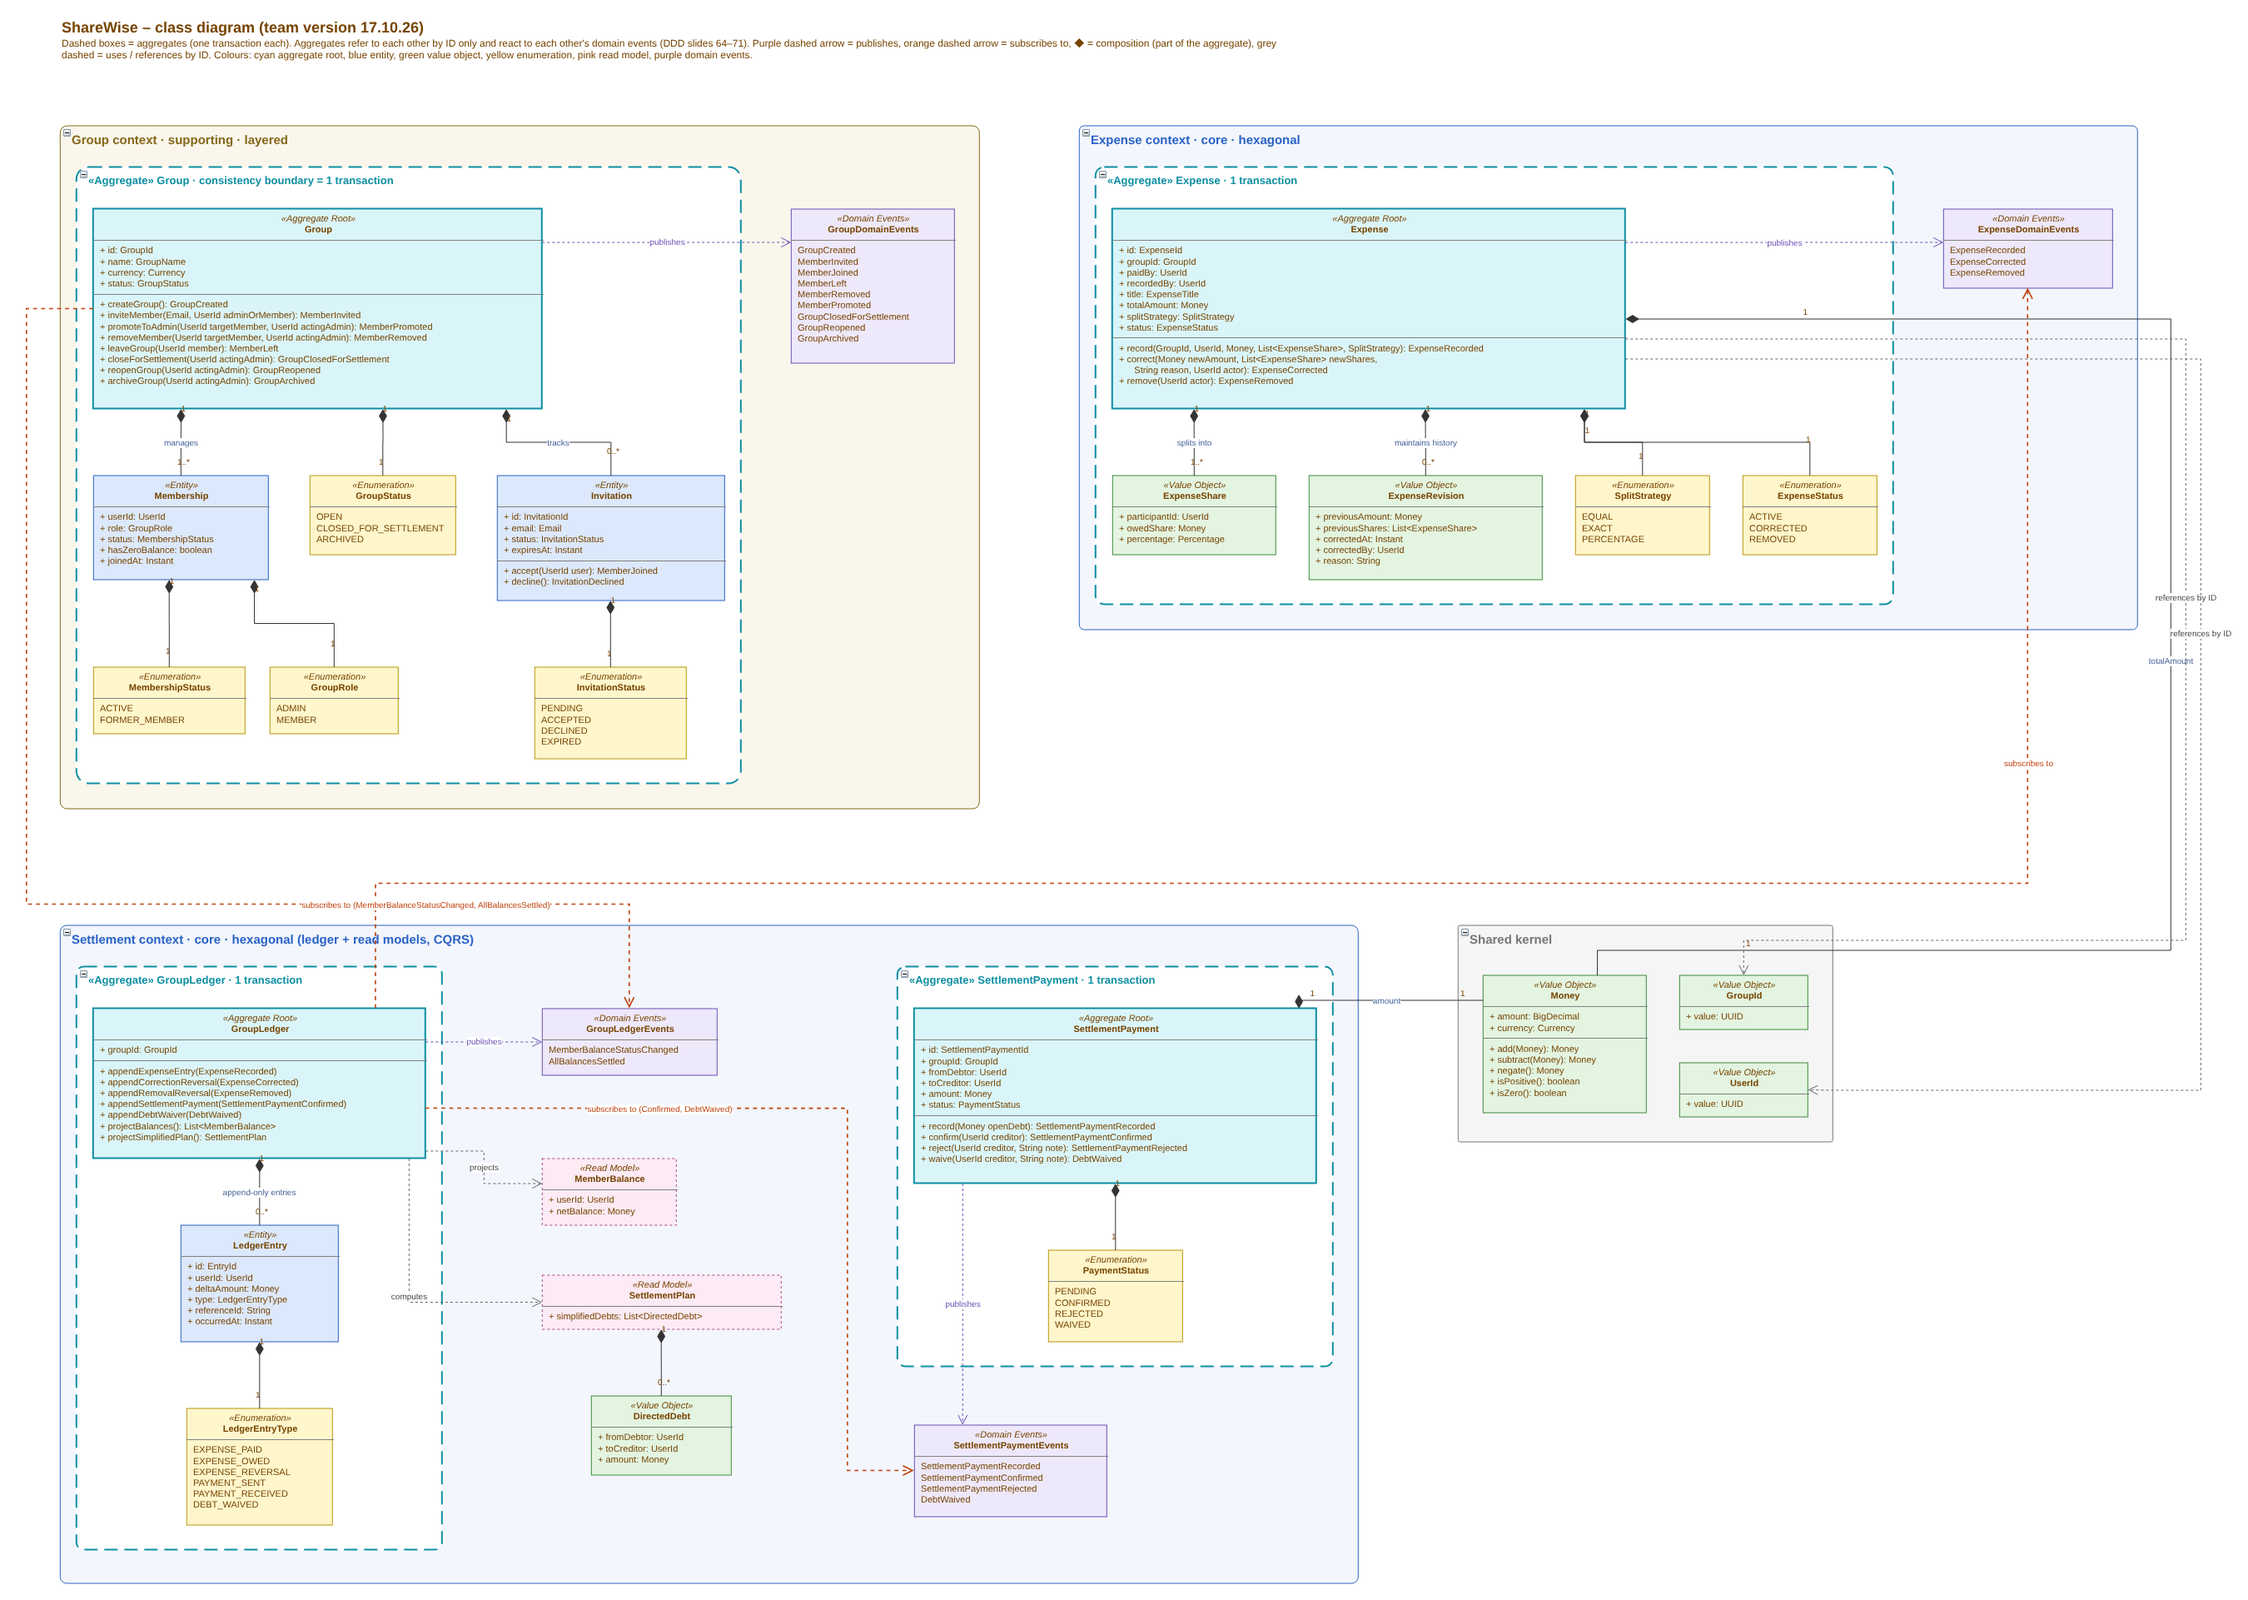
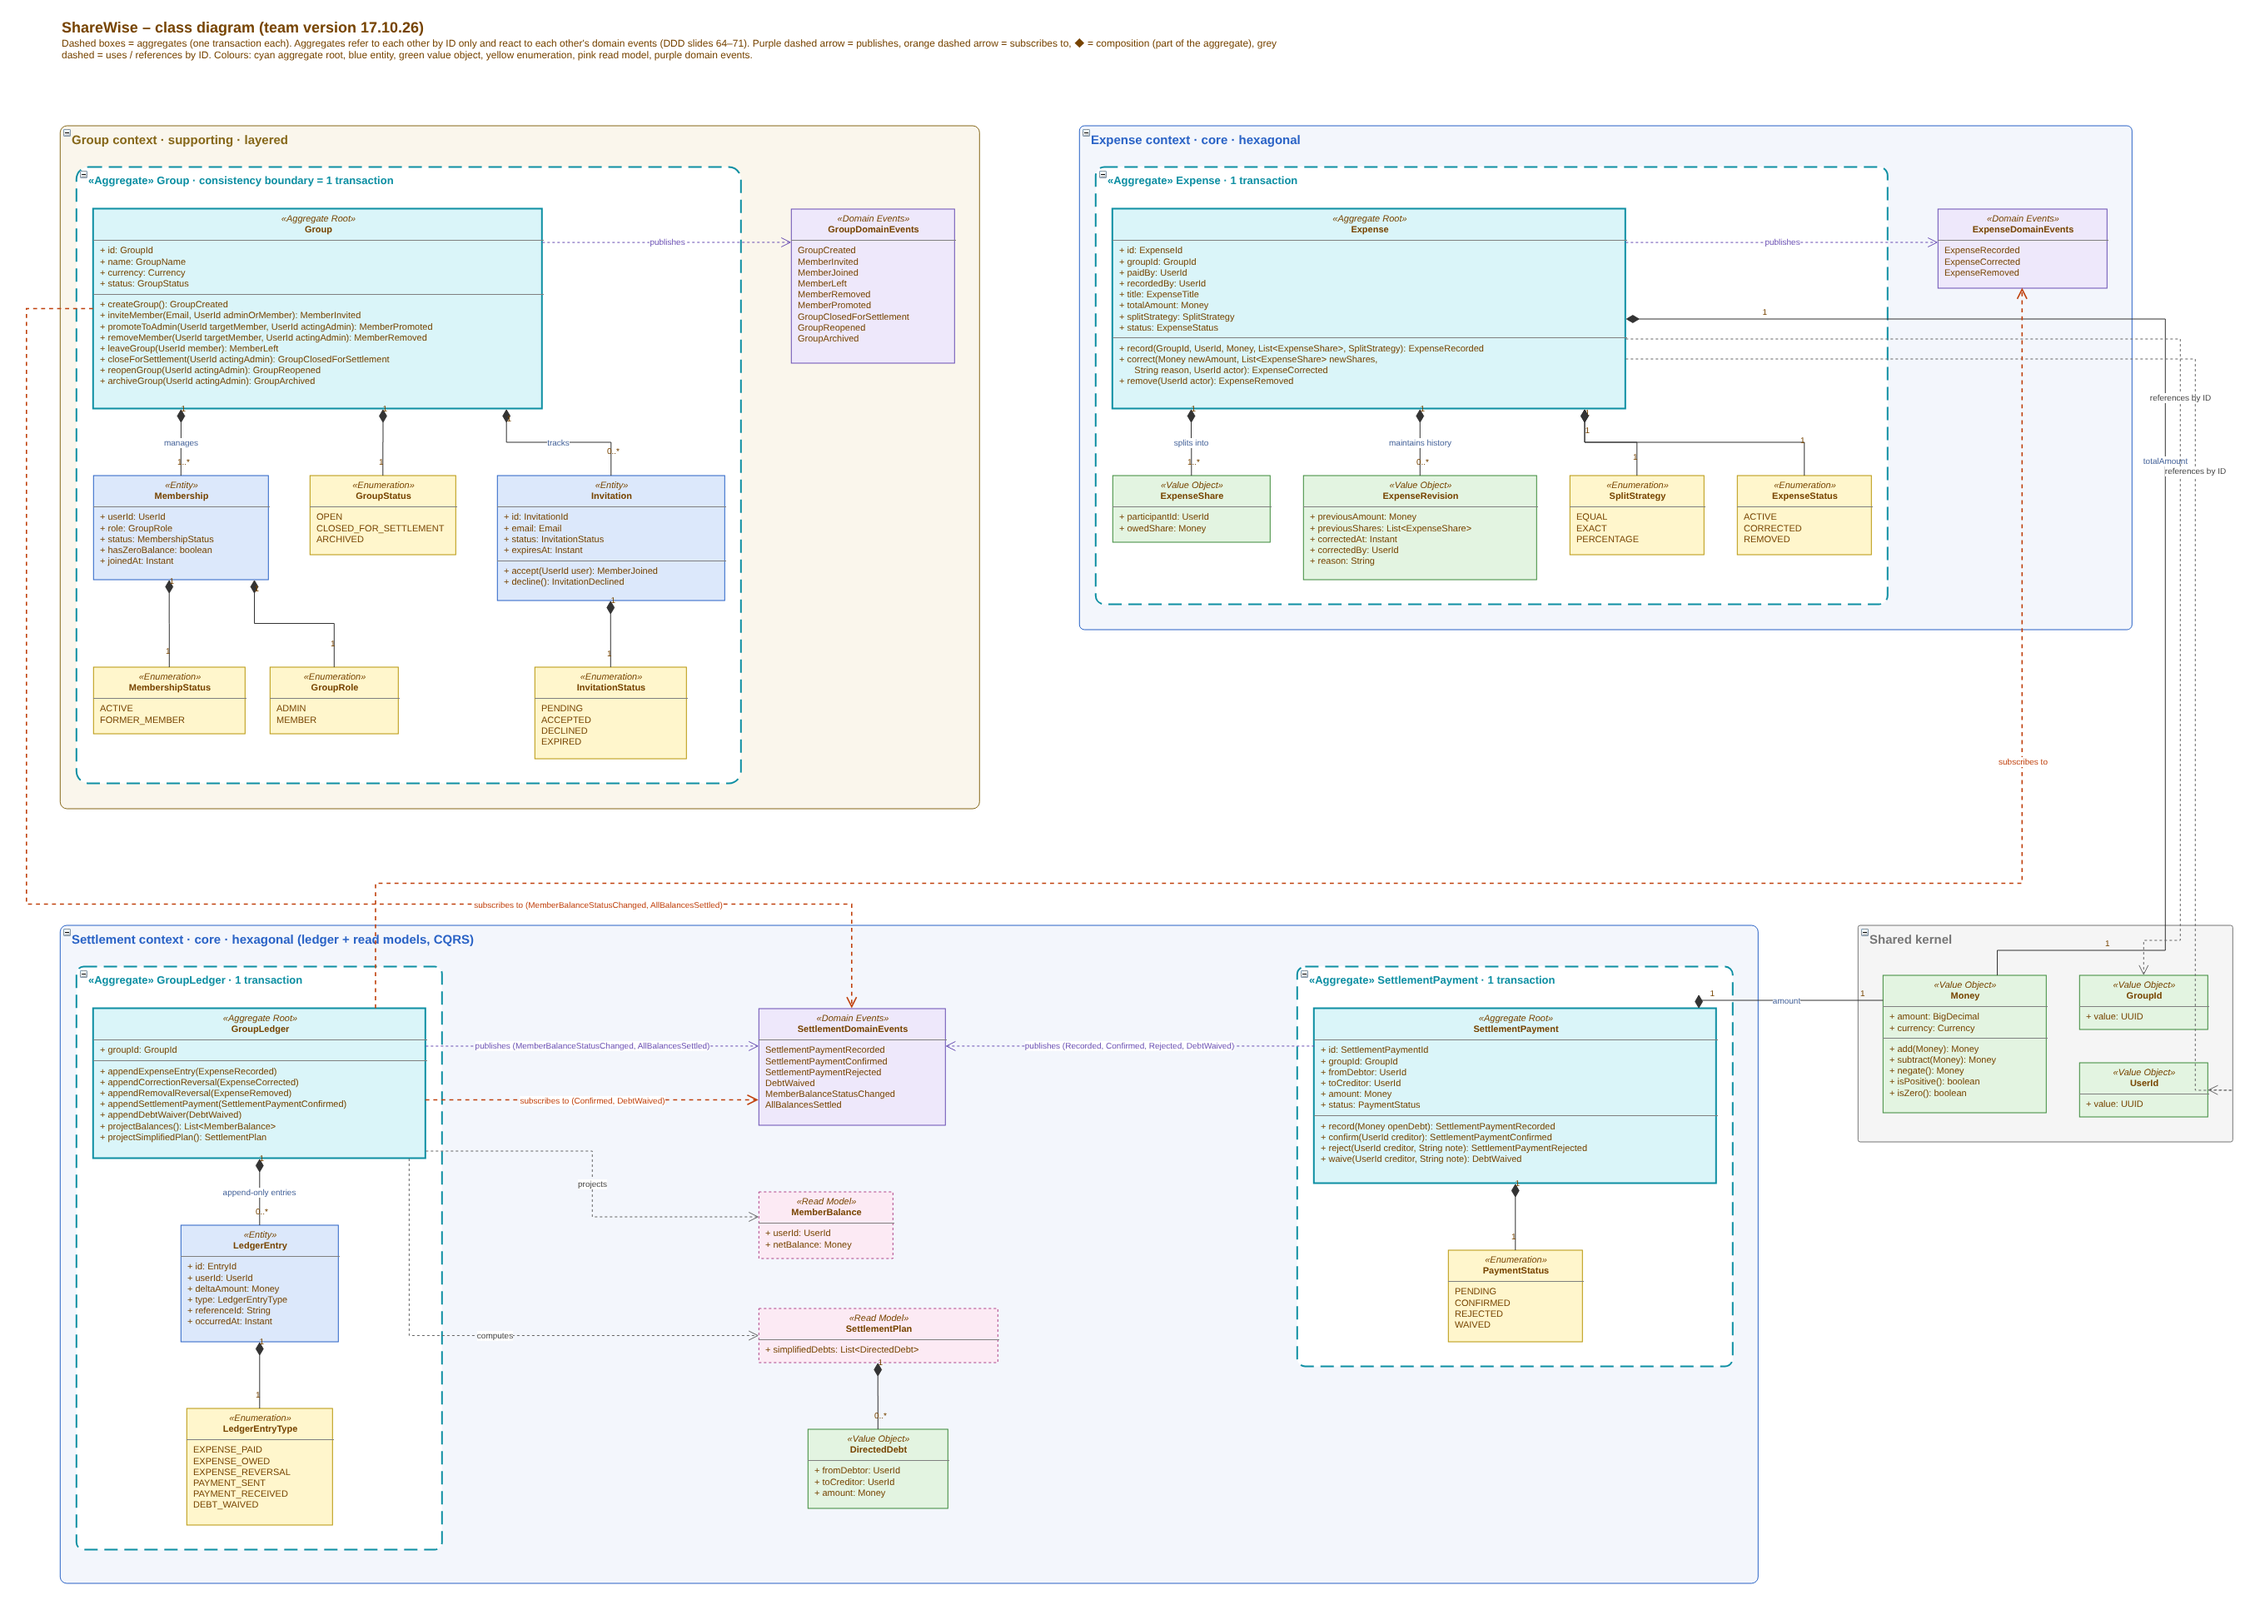
Team diagram: one Settlement events box, labelled arrows, no percentage
- ExpenseShare: percentage removed (split is stored as amounts + SplitStrategy).
- Settlement context back to one SettlementDomainEvents box (team convention:
  one events box per context) instead of two per-aggregate boxes.
- One labelled arrow per relationship: SettlementPayment publishes (Recorded,
  Confirmed, Rejected, DebtWaived); GroupLedger publishes
  (MemberBalanceStatusChanged, AllBalancesSettled); GroupLedger subscribes to
  (Confirmed, DebtWaived); Group subscribes to (MemberBalanceStatusChanged,
  AllBalancesSettled).

Claude-Session: https://claude.ai/code/session_01XWcDcA4MpQE7WFgrEA8CzJ

diff --git a/work/tools/gen_team_diagram.py b/work/tools/gen_team_diagram.py
@@ -38,7 +38,7 @@ C = {
                  "+ correct(Money newAmount, List<ExpenseShare> newShares,",
                  "      String reason, UserId actor): ExpenseCorrected",
                  "+ remove(UserId actor): ExpenseRemoved"]),
-    "ExpenseShare": ("vo", ["+ participantId: UserId", "+ owedShare: Money", "+ percentage: Percentage"], []),
+    "ExpenseShare": ("vo", ["+ participantId: UserId", "+ owedShare: Money"], []),
     "ExpenseRevision": ("vo", ["+ previousAmount: Money", "+ previousShares: List<ExpenseShare>", "+ correctedAt: Instant",
                                "+ correctedBy: UserId", "+ reason: String"], []),
     "SplitStrategy": ("enum", ["EQUAL", "EXACT", "PERCENTAGE"], []),
@@ -54,7 +54,6 @@ C = {
                                "+ referenceId: String", "+ occurredAt: Instant"], []),
     "LedgerEntryType": ("enum", ["EXPENSE_PAID", "EXPENSE_OWED", "EXPENSE_REVERSAL", "PAYMENT_SENT",
                                  "PAYMENT_RECEIVED", "DEBT_WAIVED"], []),
-    "GroupLedgerEvents": ("events", ["MemberBalanceStatusChanged", "AllBalancesSettled"], []),
     "MemberBalance": ("readmodel", ["+ userId: UserId", "+ netBalance: Money"], []),
     "SettlementPlan": ("readmodel", ["+ simplifiedDebts: List<DirectedDebt>"], []),
     "DirectedDebt": ("vo", ["+ fromDebtor: UserId", "+ toCreditor: UserId", "+ amount: Money"], []),
@@ -65,8 +64,9 @@ C = {
                            "+ reject(UserId creditor, String note): SettlementPaymentRejected",
                            "+ waive(UserId creditor, String note): DebtWaived"]),
     "PaymentStatus": ("enum", ["PENDING", "CONFIRMED", "REJECTED", "WAIVED"], []),
-    "SettlementPaymentEvents": ("events", ["SettlementPaymentRecorded", "SettlementPaymentConfirmed",
-                                           "SettlementPaymentRejected", "DebtWaived"], []),
+    "SettlementDomainEvents": ("events", ["SettlementPaymentRecorded", "SettlementPaymentConfirmed",
+                                          "SettlementPaymentRejected", "DebtWaived",
+                                          "MemberBalanceStatusChanged", "AllBalancesSettled"], []),
     # Shared kernel
     "Money": ("vo", ["+ amount: BigDecimal", "+ currency: Currency"],
               ["+ add(Money): Money", "+ subtract(Money): Money", "+ negate(): Money", "+ isPositive(): boolean",
@@ -240,17 +240,16 @@ al_w, al_h = lw + 40, 50 + lh + ROWGAP + leh + ROWGAP + lth + 30
 i = [k for k, c in enumerate(cells) if 'id="AL"' in c][0]
 cells[i] = cells[i].replace('width="10" height="10"', f'width="{al_w}" height="{al_h}"'); box["AL"] = (box["AL"][0], box["AL"][1], al_w, al_h)
 
-MID = 20 + al_w + 120                      # middle column: ledger events + read models
-gle_w, gle_h = cls("GroupLedgerEvents", "S", MID, 100)
-corridor = 100 + gle_h + 40                 # free horizontal lane under the ledger events
-mb_y = corridor + 60
+MID = 20 + al_w + 380                      # middle column: the context's events box + read models (wide gaps leave room for arrow labels)
+sde_w, sde_h = cls("SettlementDomainEvents", "S", MID, 100)
+mb_y = 100 + sde_h + 80
 mbw, mbh = cls("MemberBalance", "S", MID, mb_y)
 spw, sph = cls("SettlementPlan", "S", MID, mb_y + mbh + 60)
 ddw, ddh = size("DirectedDebt")
 cls("DirectedDebt", "S", int(MID + (spw - ddw) / 2), mb_y + mbh + 60 + sph + ROWGAP)
-mid_w = max(gle_w, mbw, spw, ddw)
+mid_w = max(sde_w, mbw, spw, ddw)
 
-AP_X = MID + mid_w + 140
+AP_X = MID + mid_w + 360
 container("AP", "S", AP_X, 50, 10, 10, "«Aggregate» SettlementPayment · 1 transaction", *AGG, dashed=True)
 pw, ph = cls("SettlementPayment", "AP", 20, 50)
 psw, psh = size("PaymentStatus")
@@ -258,10 +257,8 @@ cls("PaymentStatus", "AP", int(20 + (pw - psw) / 2), 50 + ph + ROWGAP)
 ap_w, ap_h = pw + 40, 50 + ph + ROWGAP + psh + 30
 i = [k for k, c in enumerate(cells) if 'id="AP"' in c][0]
 cells[i] = cells[i].replace('width="10" height="10"', f'width="{ap_w}" height="{ap_h}"'); box["AP"] = (box["AP"][0], box["AP"][1], ap_w, ap_h)
-spe_w, spe_h = size("SettlementPaymentEvents")
-cls("SettlementPaymentEvents", "S", AP_X + 20, 50 + ap_h + 70)
-s_w = AP_X + max(ap_w, 20 + spe_w) + 30
-s_h = max(50 + al_h, 50 + ap_h + 70 + spe_h, mb_y + mbh + 60 + sph + ROWGAP + ddh) + 40
+s_w = AP_X + ap_w + 30
+s_h = max(50 + al_h, 50 + ap_h, mb_y + mbh + 60 + sph + ROWGAP + ddh) + 40
 i = [k for k, c in enumerate(cells) if 'id="S"' in c][0]
 cells[i] = cells[i].replace('width="10" height="10"', f'width="{s_w}" height="{s_h}"'); box["S"] = (S0[0], S0[1], s_w, s_h)
 
@@ -269,19 +266,20 @@ comp("LedgerEntry", "GroupLedger", "append-only entries", ("0..*", "1"))
 comp("LedgerEntryType", "LedgerEntry")
 comp("DirectedDebt", "SettlementPlan", "", ("0..*", "1"))
 comp("PaymentStatus", "SettlementPayment")
-L = box["GroupLedger"]; GLE = box["GroupLedgerEvents"]; MB = box["MemberBalance"]; SP = box["SettlementPlan"]
-P = box["SettlementPayment"]; SPE = box["SettlementPaymentEvents"]; Sx, Sy = S0
-edge("GroupLedger", "GroupLedgerEvents", PUB, "publishes", exit=(1, (GLE[1] + 40 - L[1]) / L[3]), entry=(0, 40 / GLE[3]))
+L = box["GroupLedger"]; SDE = box["SettlementDomainEvents"]; MB = box["MemberBalance"]; SP = box["SettlementPlan"]
+P = box["SettlementPayment"]; Sx, Sy = S0
+y1, y2 = SDE[1] + 45, SDE[1] + SDE[3] - 30   # two separate horizontal lanes between GroupLedger and the events box
+edge("GroupLedger", "SettlementDomainEvents", PUB, "publishes (MemberBalanceStatusChanged, AllBalancesSettled)",
+     exit=(1, (y1 - L[1]) / L[3]), entry=(0, (y1 - SDE[1]) / SDE[3]))
+edge("GroupLedger", "SettlementDomainEvents", SUB, "subscribes to (Confirmed, DebtWaived)",
+     exit=(1, (y2 - L[1]) / L[3]), entry=(0, (y2 - SDE[1]) / SDE[3]))
 edge("GroupLedger", "MemberBalance", DASH, "projects", exit=(1, min(0.95, (MB[1] + 30 - L[1]) / L[3])), entry=(0, 30 / MB[3]))
 x_down = L[0] + L[2] - 20
 edge("GroupLedger", "SettlementPlan", DASH, "computes", exit=((x_down - L[0]) / L[2], 1), entry=(0, 0.5),
      points=[(x_down, SP[1] + SP[3] / 2)])
-edge("SettlementPayment", "SettlementPaymentEvents", PUB, "publishes", exit=(0.12, 1),
-     entry=((P[0] + 0.12 * P[2] - SPE[0]) / SPE[2], 0))
-lane_y = Sy + corridor
-lane_x = box["AP"][0] - 60
-edge("GroupLedger", "SettlementPaymentEvents", SUB, "subscribes to (Confirmed, DebtWaived)",
-     exit=(1, (lane_y - L[1]) / L[3]), entry=(0, 0.5), points=[(lane_x, lane_y), (lane_x, SPE[1] + SPE[3] / 2)], label_at=-0.45)
+y3 = SDE[1] + 45
+edge("SettlementPayment", "SettlementDomainEvents", PUB, "publishes (Recorded, Confirmed, Rejected, DebtWaived)",
+     exit=(0, (y3 - P[1]) / P[3]), entry=(1, (y3 - SDE[1]) / SDE[3]))
 
 # ================================================================== Shared kernel (right of Settlement)
 K0 = (s_w + 120, S0[1])
@@ -315,11 +313,11 @@ for k, (tgt, lbl, sty, fy) in enumerate((("Money", "totalAmount", COMP, 0.55), (
 gap_y = S0[1] - 50
 edge("GroupLedger", "ExpenseDomainEvents", SUB, "subscribes to", exit=(0.85, 0), entry=(0.5, 1),
      points=[(L[0] + 0.85 * L[2], gap_y), (EDE[0] + EDE[2] / 2, gap_y)], label_at=0.6)
-# Group subscribes to GroupLedgerEvents: out of Group's left side, down the left margin, into the ledger events from above
+# Group subscribes to SettlementDomainEvents: out of Group's left side, down the left margin, into the events box from above
 gap_y2 = S0[1] - 25
 Gr = box["Group"]
-edge("Group", "GroupLedgerEvents", SUB, "subscribes to (MemberBalanceStatusChanged, AllBalancesSettled)",
-     exit=(0, 0.5), entry=(0.5, 0), points=[(-40, Gr[1] + Gr[3] / 2), (-40, gap_y2), (GLE[0] + GLE[2] / 2, gap_y2)], label_at=0.55)
+edge("Group", "SettlementDomainEvents", SUB, "subscribes to (MemberBalanceStatusChanged, AllBalancesSettled)",
+     exit=(0, 0.5), entry=(0.5, 0), points=[(-40, Gr[1] + Gr[3] / 2), (-40, gap_y2), (SDE[0] + SDE[2] / 2, gap_y2)], label_at=0.55)
 
 # ================================================================== title + legend
 leg = ("<b style='font-size:18px'>ShareWise – class diagram (team version 17.10.26)</b><br/>"

diff --git a/work/HANDOFF_Ex3_Team_Diagram.md b/work/HANDOFF_Ex3_Team_Diagram.md
@@ -21,7 +21,7 @@ Context for a new Claude session. Read this first, then `CLAUDE.md`.
 ## Already fixed in `firstdraft.drawio` (by the previous session)
 1. `InvitationStatus` moved into the GroupContext box, under `Invitation`, one 1–1 composition, values in lifecycle order. It was a copy of `MembershipStatus` (wrong internal mermaidId); fixed.
 2. Settlement context: dashed **aggregate boundary boxes** (containers) – `«Aggregate» GroupLedger` (GroupLedger + LedgerEntry + LedgerEntryType) and `«Aggregate» SettlementPayment` (SettlementPayment + PaymentStatus). Read models and events outside. Edges routed through gaps.
-3. Events split per aggregate: `SettlementPaymentEvents` (Recorded, Confirmed, Rejected, DebtWaived) and `GroupLedgerEvents` (MemberBalanceStatusChanged, AllBalancesSettled). One edge per relationship.
+3. One `SettlementDomainEvents` box per context (team convention), one labelled arrow per relationship: SettlementPayment publishes (Recorded, Confirmed, Rejected, DebtWaived); GroupLedger publishes (MemberBalanceStatusChanged, AllBalancesSettled); GroupLedger subscribes to (Confirmed, DebtWaived); Group subscribes to (MemberBalanceStatusChanged, AllBalancesSettled). (A split into two boxes was tried and reverted on 17.10.)
 4. `DebtForgiven` renamed to **`DebtWaived`** everywhere (incl. the embedded Mermaid source).
 
 ## Open points (from the review, ranked) – discuss with the user one at a time
@@ -34,7 +34,7 @@ Context for a new Claude session. Read this first, then `CLAUDE.md`.
 4. `waive()` / `DebtWaived` / `WAIVED` is a **new feature** not in `ShareWise_Requirements.md` → add it there or drop for MVP. Waiving isn't a payment; fits better as a GroupLedger command.
 5. `LedgerEntry` is «Entity» but never changes → by slide 65 it's a value object / immutable record. Prepare answer to "doesn't GroupLedger grow forever?" (rule 2: small aggregates) → balances are projected, snapshots possible.
 6. `Expense.correct(Money newAmount, List newShares, …)` too narrow: J5 also changes payer and split strategy. Widen, or decide payer can't be corrected.
-7. `ExpenseShare` lost `percentage` in the draw.io box (it's in the Mermaid source); needed for percentage split (R4).
+7. ~~`ExpenseShare.percentage`~~ – decided 17.10: not needed. Percentages are only input; the split is stored as amounts (`owedShare`) + `SplitStrategy`.
 
 **Diagram tidy-up**
 - `createGroup()` has no params → `(name, currency, creator) → GroupCreated, MemberJoined`.
@@ -49,7 +49,7 @@ Context for a new Claude session. Read this first, then `CLAUDE.md`.
 ## How to edit `firstdraft.drawio` safely (only if you still need the original)
 - **Never use draw.io "Edit → Mermaid"**: the file embeds the original Mermaid source (`mermaidData` on the first `UserObject`); regenerating from it drops all manual fixes.
 - Structure: each class is a `UserObject` (id `hCQeS1Rk4ec1oHEpOPA0-<n>`, attribute `label`) wrapping an `mxCell` with a `swimlane` + `stackLayout` style. Rows are child `mxCell`s (`text` style, height 21, first row at y=36 or y=78 after the stereotype row at y=12; a `line` cell is the compartment divider). When adding/removing rows, update the box height.
-- Containers: `GroupContext` = `…-171`, `ExpenseContext` = `…-21`, `SettlementContext` = `…-80`, `SharedKernel` = `…-2`. Aggregate boxes: `agg-ledger`, `agg-payment`. Ledger events box: `ev-ledger`. Child coordinates are relative to their parent.
+- Containers: `GroupContext` = `…-171`, `ExpenseContext` = `…-21`, `SettlementContext` = `…-80`, `SharedKernel` = `…-2`. Aggregate boxes: `agg-ledger`, `agg-payment`. Ledger events box `ev-ledger` (firstdraft only; the generated diagram uses one `SettlementDomainEvents` box). Child coordinates are relative to their parent.
 - Edges with `parent="1"` use absolute coordinates for waypoints; edges inside a container use coordinates relative to it.
 - Validate after each change: `python3 -c "import xml.dom.minidom as m; m.parse('work/firstdraft.drawio')"`.
 - Commit + push after each agreed step (only one session should edit the file at a time).
